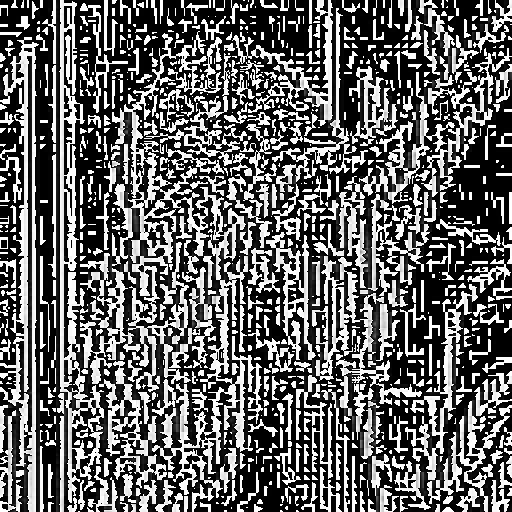
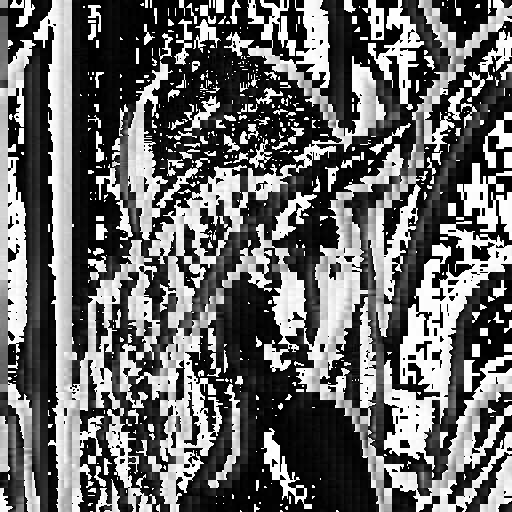
wip

diff --git a/trab3.py b/trab3.py
@@ -77,19 +77,11 @@ def dpcm(bloco_dct):
 
 def desc_dpcm(bloco_dct_dpcm, dc):
 
-    print len(bloco_dct_dpcm)
-    print len(dc)
-
-    # dc = [bloco_dct_dpcm[0][0][0]]
-
     bloco_dct = np.copy(bloco_dct_dpcm)
 
     # DPCM da componente DC
-    for i in xrange(1, len(bloco_dct_dpcm)):
+    for i in xrange(0, len(dc)):
         bloco_dct[i][0][0] = dc[i]
-        dc_value = bloco_dct[i-1][0][0] + bloco_dct_dpcm[i][0][0]
-        bloco_dct[i][0][0] = dc_value
-        dc.append(dc_value)
 
     return bloco_dct
 
@@ -212,6 +204,9 @@ def codifica_huff(bloco_dct_dpcm_zz, bloco_dct_dpcm, debug):
     # stream de bits de saida
     bit_stream = ""
 
+    # insere informação sobre a o numero de blocos 8x8 a ler
+    bit_stream += '{0:032b}'.format(len(bloco_dct_dpcm_zz))
+
     for i in xrange(len(bloco_dct_dpcm)):
         # valor componente DC
         dc = int(bloco_dct_dpcm[i][0][0])
@@ -245,16 +240,15 @@ def codifica_huff(bloco_dct_dpcm_zz, bloco_dct_dpcm, debug):
                 # o valor é ainda subdividido em size e amp como no dc
                 size = len('{0:b}'.format(abs(value)))
                 amp_ac = ones_complement(value, size)
+                # o tuplo (runlength, size) é codificado recorrendo a tabela K5 com codigo de Huffman
+                bit_stream += K5[(runlength, size)]  # + " "
+                # o valor é codificado sem huffman
+                bit_stream += amp_ac  # + " "
 
             else:
                 size = 0
-
-            # o tuplo (runlength, size) é codificado recorrendo a tabela K5 com codigo de Huffman
-            bit_stream += K5[(runlength, size)]  # + " "
-
-            if value != 0:
-                # o valor é codificado sem huffman
-                bit_stream += amp_ac  # + " "
+                # o tuplo (runlength, size) é codificado recorrendo a tabela K5 com codigo de Huffman
+                bit_stream += K5[(runlength, size)]  # + " "
 
     if debug:
         print bit_stream
@@ -282,14 +276,18 @@ def le_huff():
     # Sequencia de bits com a codificação da mensagem
     seqbits = ler("Lena_Cod.huf")
 
+    # le o primeiro bloco de 32 bits com a informação sobre o numero de blocos 8x8 a ler
+    n_blocos = int(seqbits[0:32], 2)
+    seqbits = seqbits[32:]
+
     # lista bidimensional com a totalidade dos ac dos blocos
     bloco_dct_dpcm_zz = []
 
+    # loops de (15,0) para serem retirados
     zero_run_loops = 0
 
     # lê os bits codificados enquanto houver dados para leitura
-    while len(seqbits) != 0:
-        print len(seqbits)
+    for z in xrange(n_blocos):
         # flag end of block
         eob = False
         # le o dc
@@ -611,37 +609,38 @@ def main():
     print "O saldo da compressão foi de {} Kb".format(round((size_ini - size_end) / 1024., 2))
 
     # imprime imagem
-    # x_desc = revert_to_original_block(bloco_dct_dpcm_zz, x.shape)
+    x_desc = revert_to_original_block(bloco_dct_dpcm, x.shape)
     # print snr(x, x_desc.astype(np.uint8))
-    # cv2.imshow("Lena cod alfa = 0", x_desc.astype(np.uint8))
-    # k = cv2.waitKey(0) & 0xFF
+    cv2.imshow("Lena cod alfa = 0", x_desc.astype(np.uint8))
+    k = cv2.waitKey(0) & 0xFF
 
     # leitura do ficheiro e reconstrução do ac e dc
-    dc, bloco_dct_dpcm_zz = le_huff()
+    dc, bloco_desc_dct_dpcm_zz = le_huff()
 
     t5 = time()
     print "O tempo necessário para a leitura do ficheiro e reconstrução do ac e dc foi de {} " \
           "segundos".format(round(t5 - t4, 3))
 
     # descodificacao ac
-    bloco_dct_dpcm = zag_zig(bloco_dct_dpcm_zz, zigzag, debug)
+    bloco_desc_dct_dpcm = zag_zig(bloco_desc_dct_dpcm_zz, zigzag, debug)
 
     t6 = time()
     print "O tempo necessário para a descodificacao ac foi de {} segundos".format(round(t6 - t5, 3))
 
     # Descodificação parametro DC
-    bloco_dct = desc_dpcm(bloco_dct_dpcm, dc)
+    bloco_desc_dct = desc_dpcm(bloco_desc_dct_dpcm, dc)
 
     t7 = time()
     print "O tempo necessário para a descodificacao dc foi de {} segundos".format(round(t7 - t6, 3))
 
     if debug:
-        print bloco_dct_dpcm[0]
+        print bloco_desc_dct_dpcm[0]
+        print bloco_desc_dct[0]
 
     # descodificação
     for i in xrange(len(lista_blocos)):
 
-        bloco = descodificador(bloco_dct[i], k1, alfa)
+        bloco = descodificador(bloco_desc_dct[i], k1, alfa)
 
         bloco_rec.append(bloco)
 
@@ -656,9 +655,9 @@ def main():
     # print snr(x, x_rec.astype(np.uint8))
     # print np.all(x == np.rint(x_rec))
     cv2.imshow("Lena desc alfa=0", x_rec.astype(np.uint8))
-    # k = cv2.waitKey(0) & 0xFF
+    k = cv2.waitKey(0) & 0xFF
 
-    # cv2.imwrite("lena_output.png", x_rec.astype(np.uint8))
+    cv2.imwrite("lena_output.png", x_rec.astype(np.uint8))
 
     print "========================================================================================================"
     print "========================================================================================================"
